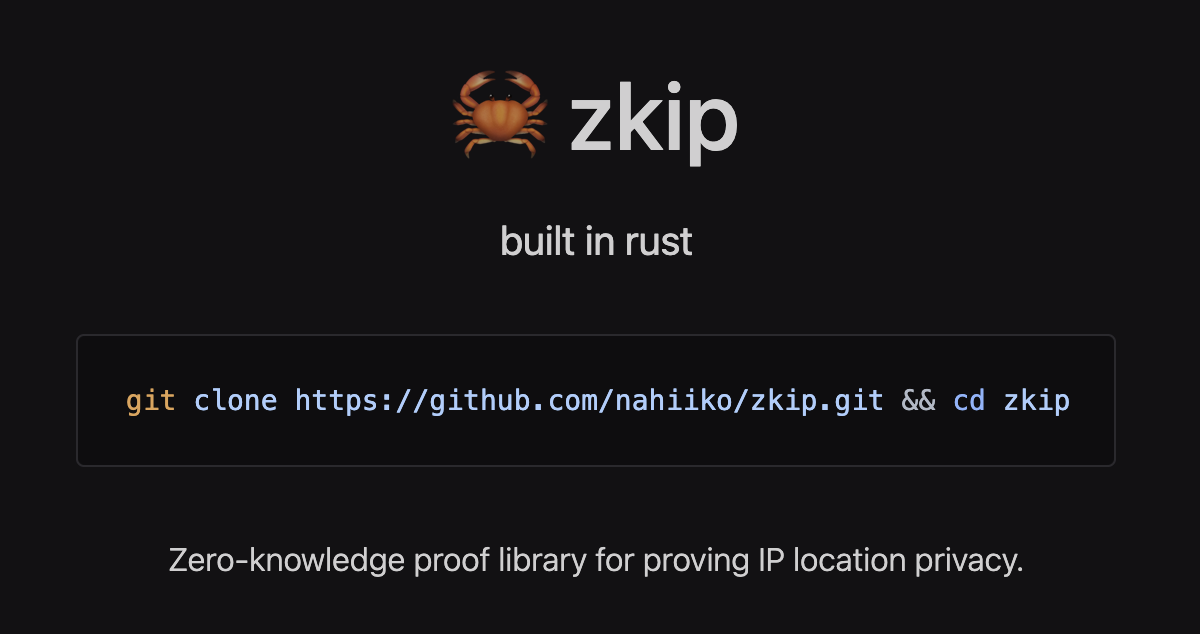
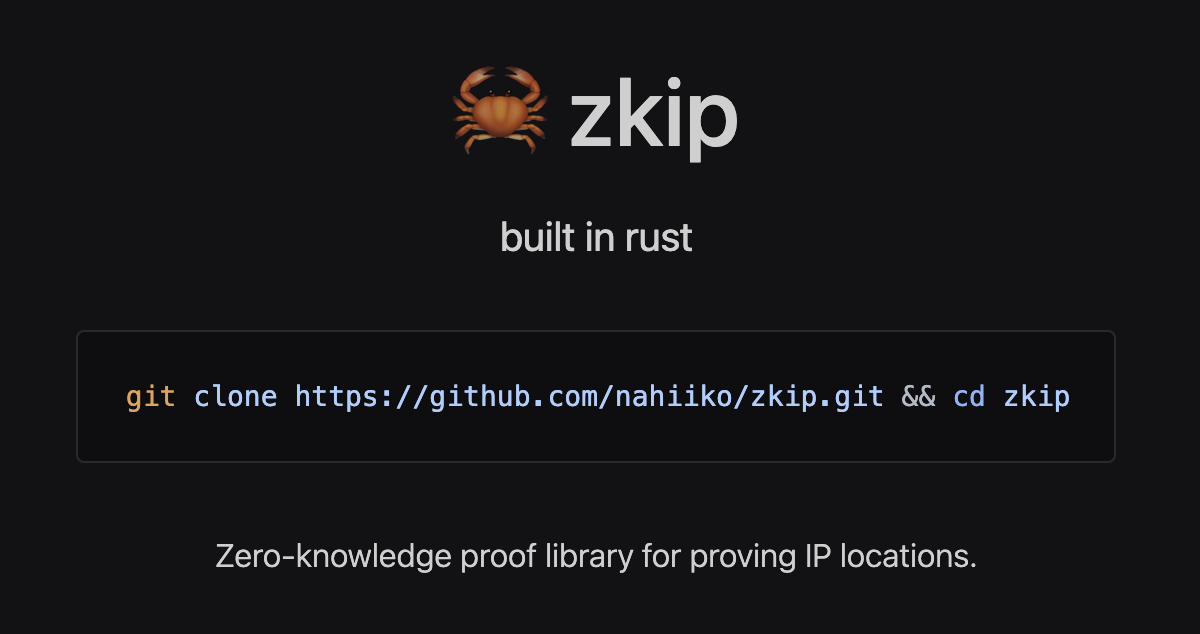
docs: update description

diff --git a/vocs.config.ts b/vocs.config.ts
@@ -3,7 +3,7 @@ import { defineConfig } from "vocs";
 export default defineConfig({
   title: "🦀 zkip",
   baseUrl: "https://zkip.nahiko.dev",
-  description: "Zero-knowledge proof library for proving IP location privacy.",
+  description: "Zero-knowledge proof library for proving IP locations.",
   iconUrl: "/favicon.svg",
   ogImageUrl: "/og.png",
   sidebar: [
